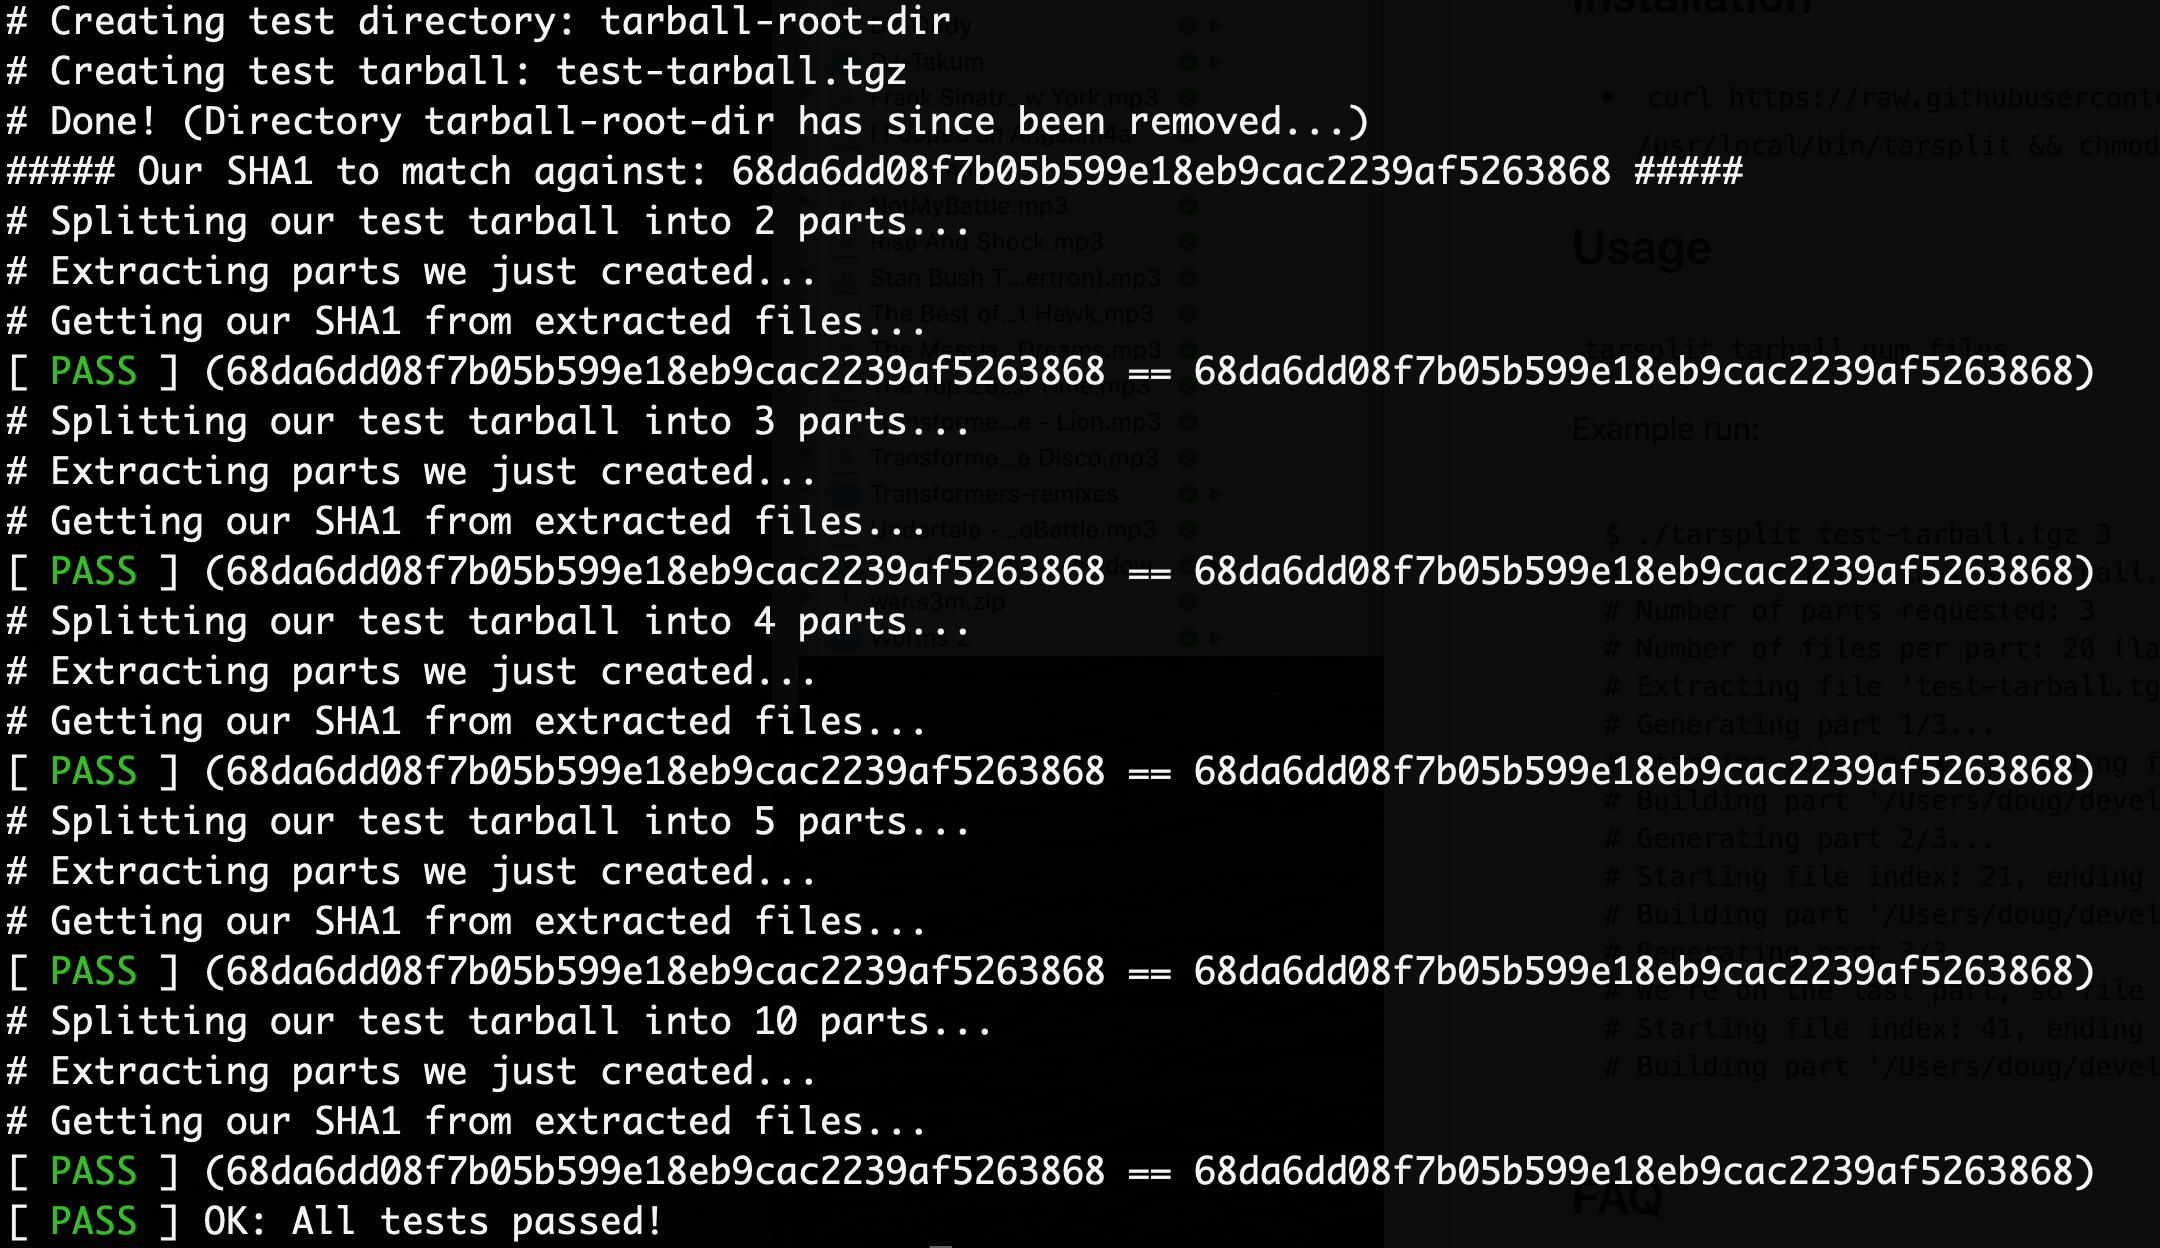
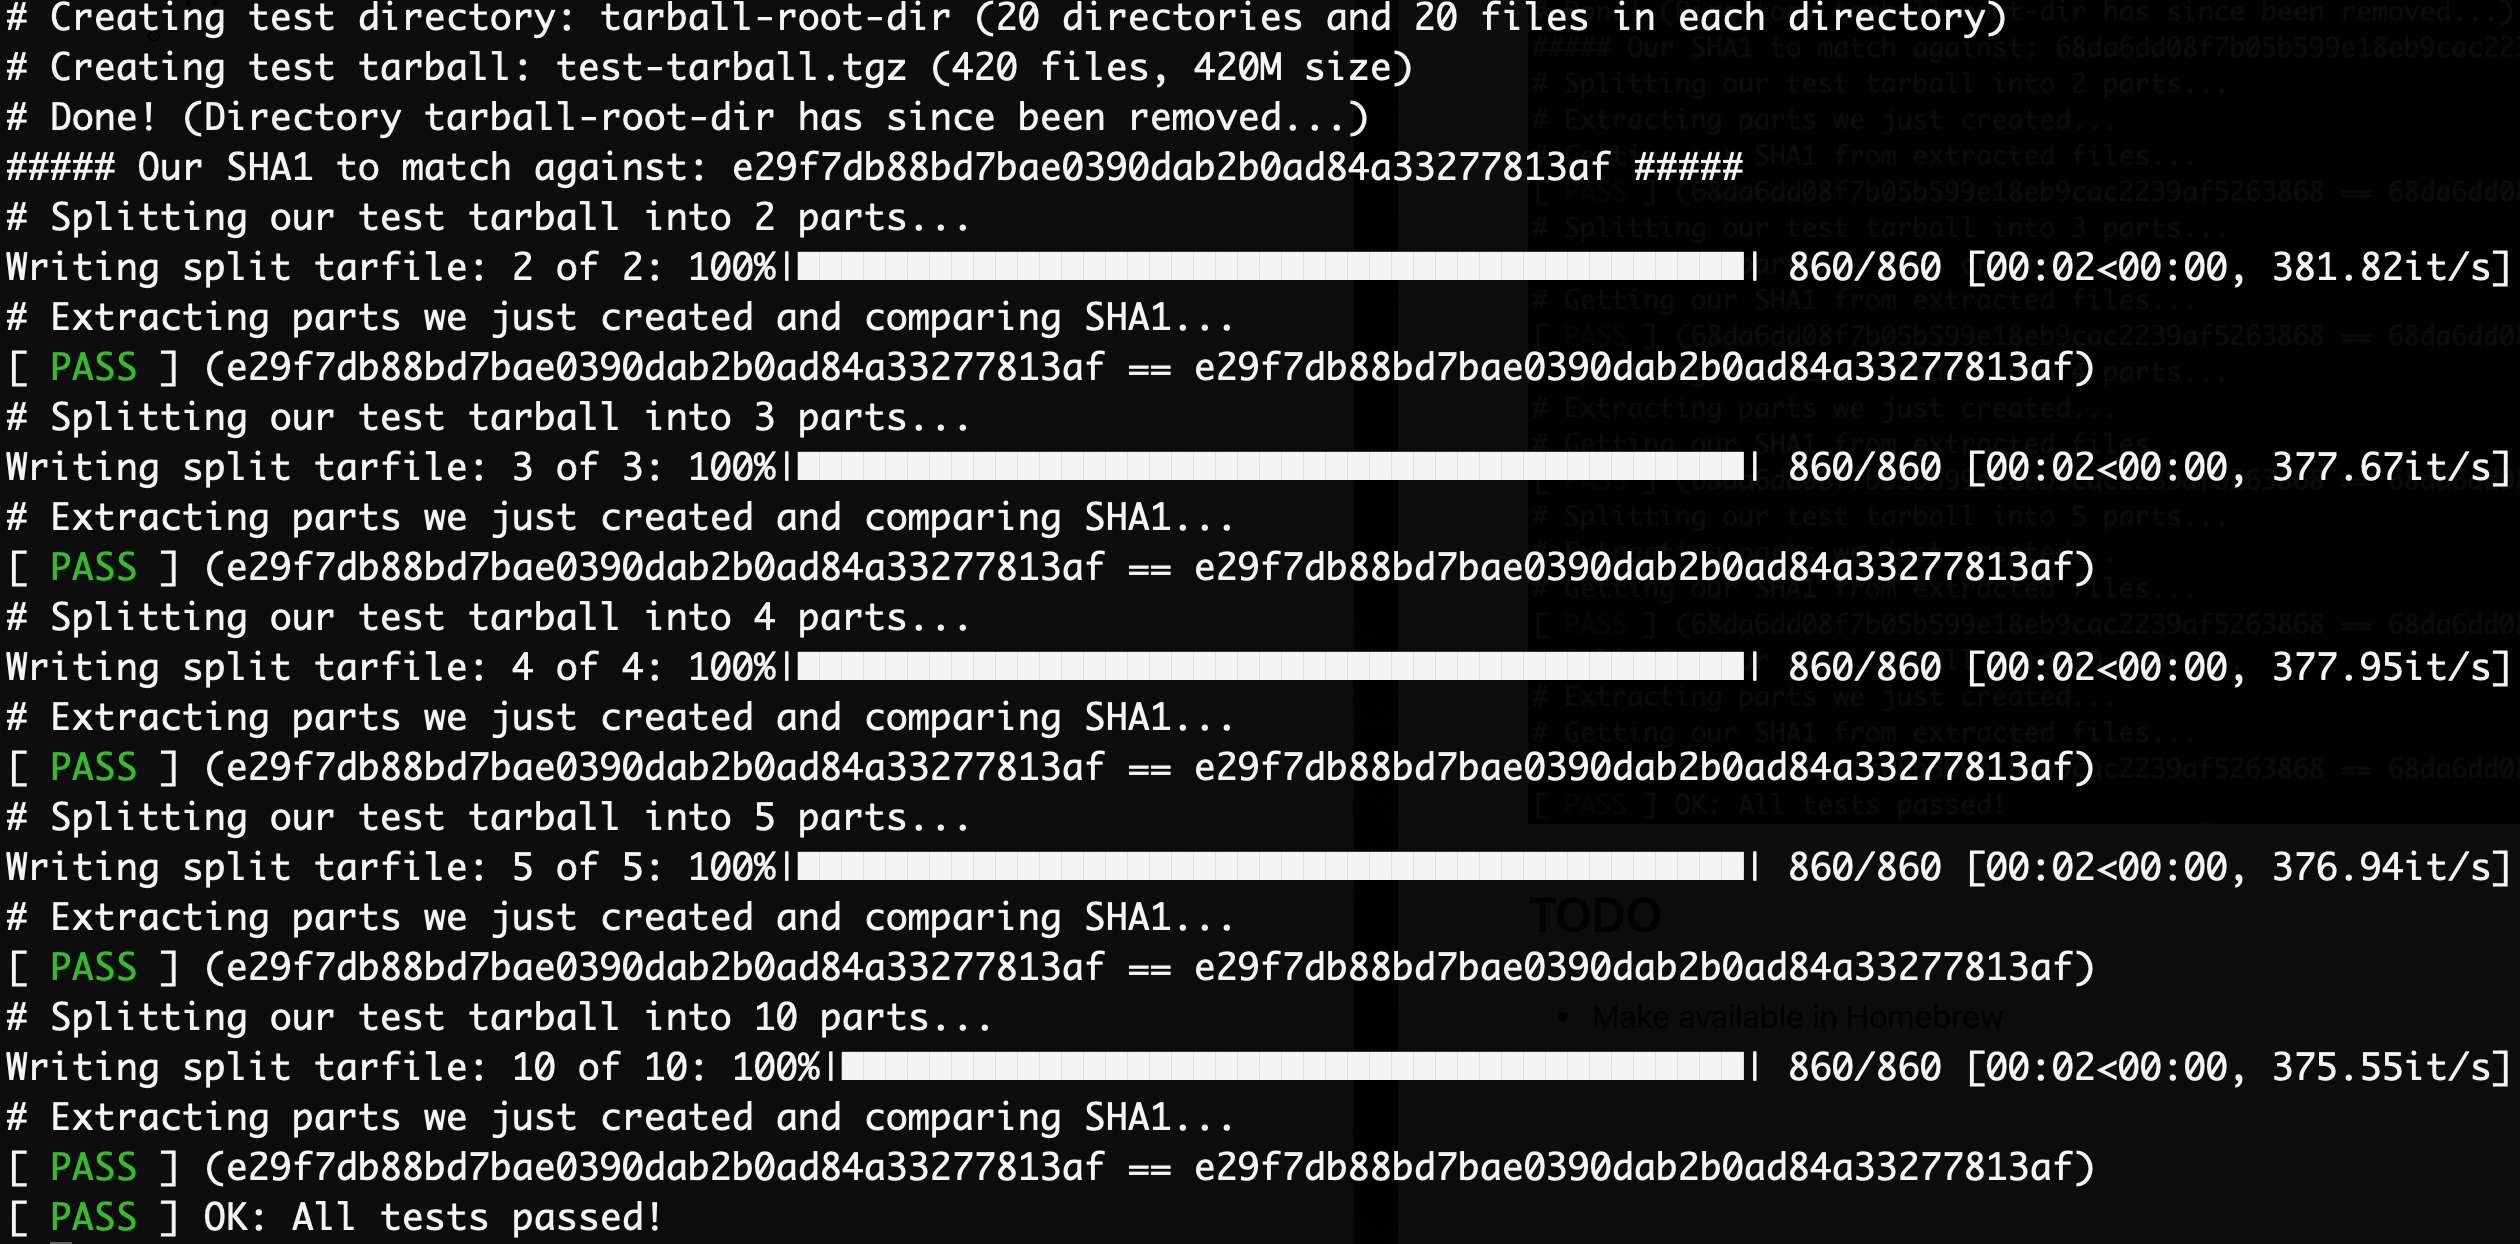
Added new screenshots

Changed region(s): [[0.0, 0.0, 1.0, 1.0]]

diff --git a/README.md b/README.md
@@ -20,20 +20,8 @@ This is useful for gigantic tarballs that need to need to be split up so that th
 `tarsplit [ --dry-run ] tarball num_files`
 
 Example run:
-```
-$ ./tarsplit ./test-tarball.tgz 3
-Welcome to Tarsplit! Reading file ./test-tarball.tgz...
-Total uncompressed file size: 31457280 bytes, num chunks: 3, chunk size: 10485760 bytes
-10 files written to test-tarball.tgz-part-1-of-3
-20 files written to test-tarball.tgz-part-1-of-3
-Successfully wrote 10485760 bytes in 22 files to test-tarball.tgz-part-1-of-3
-10 files written to test-tarball.tgz-part-2-of-3
-20 files written to test-tarball.tgz-part-2-of-3
-Successfully wrote 10485760 bytes in 22 files to test-tarball.tgz-part-2-of-3
-10 files written to test-tarball.tgz-part-3-of-3
-20 files written to test-tarball.tgz-part-3-of-3
-Successfully wrote 10485760 bytes in 21 files to test-tarball.tgz-part-3-of-3
-```
+
+<img src="./img/tarsplit-run.png" />
 
 
 ## FAQ
